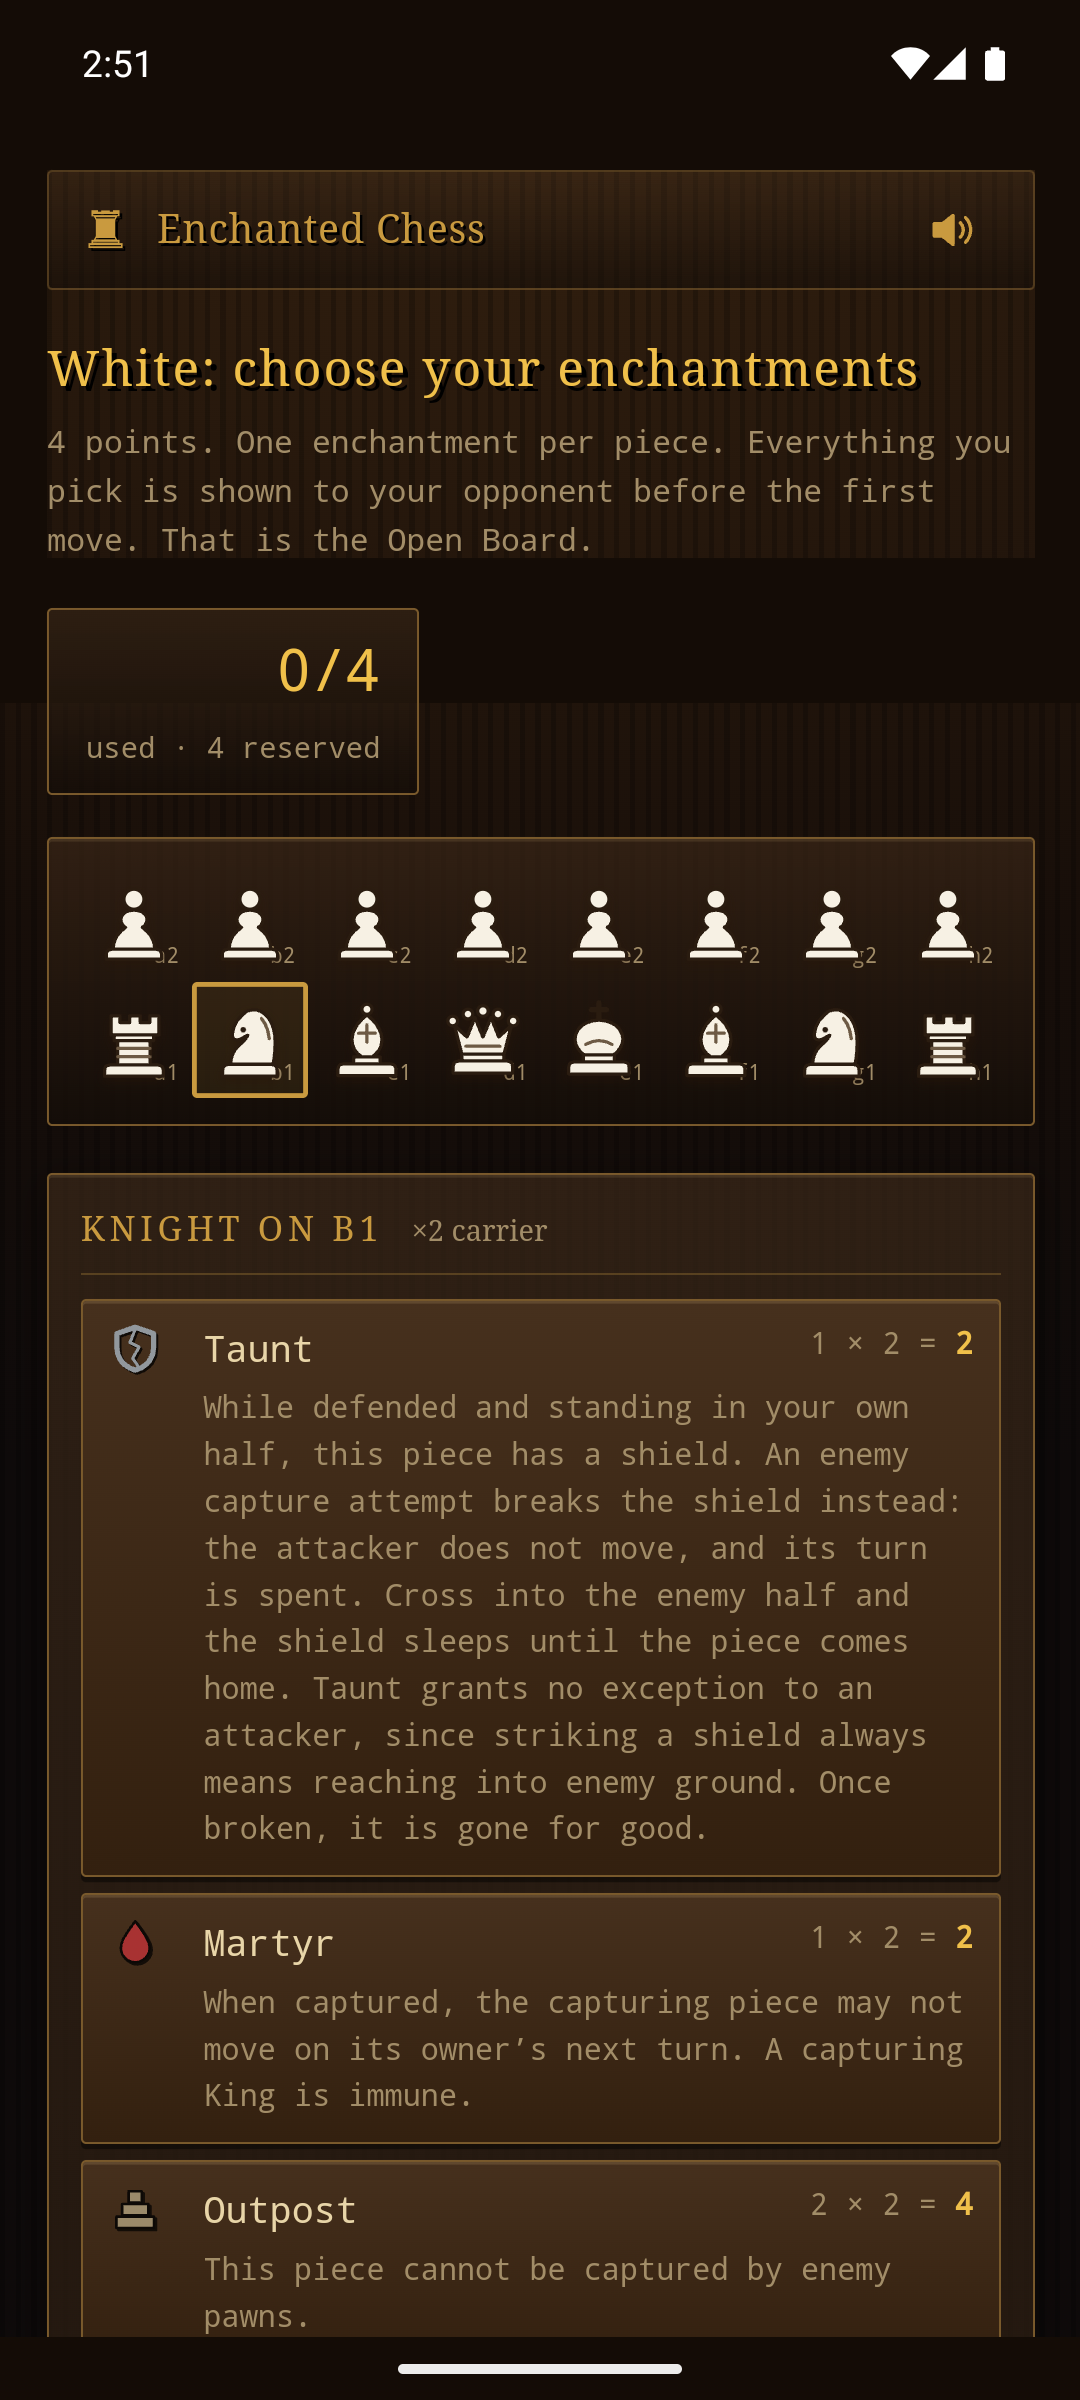
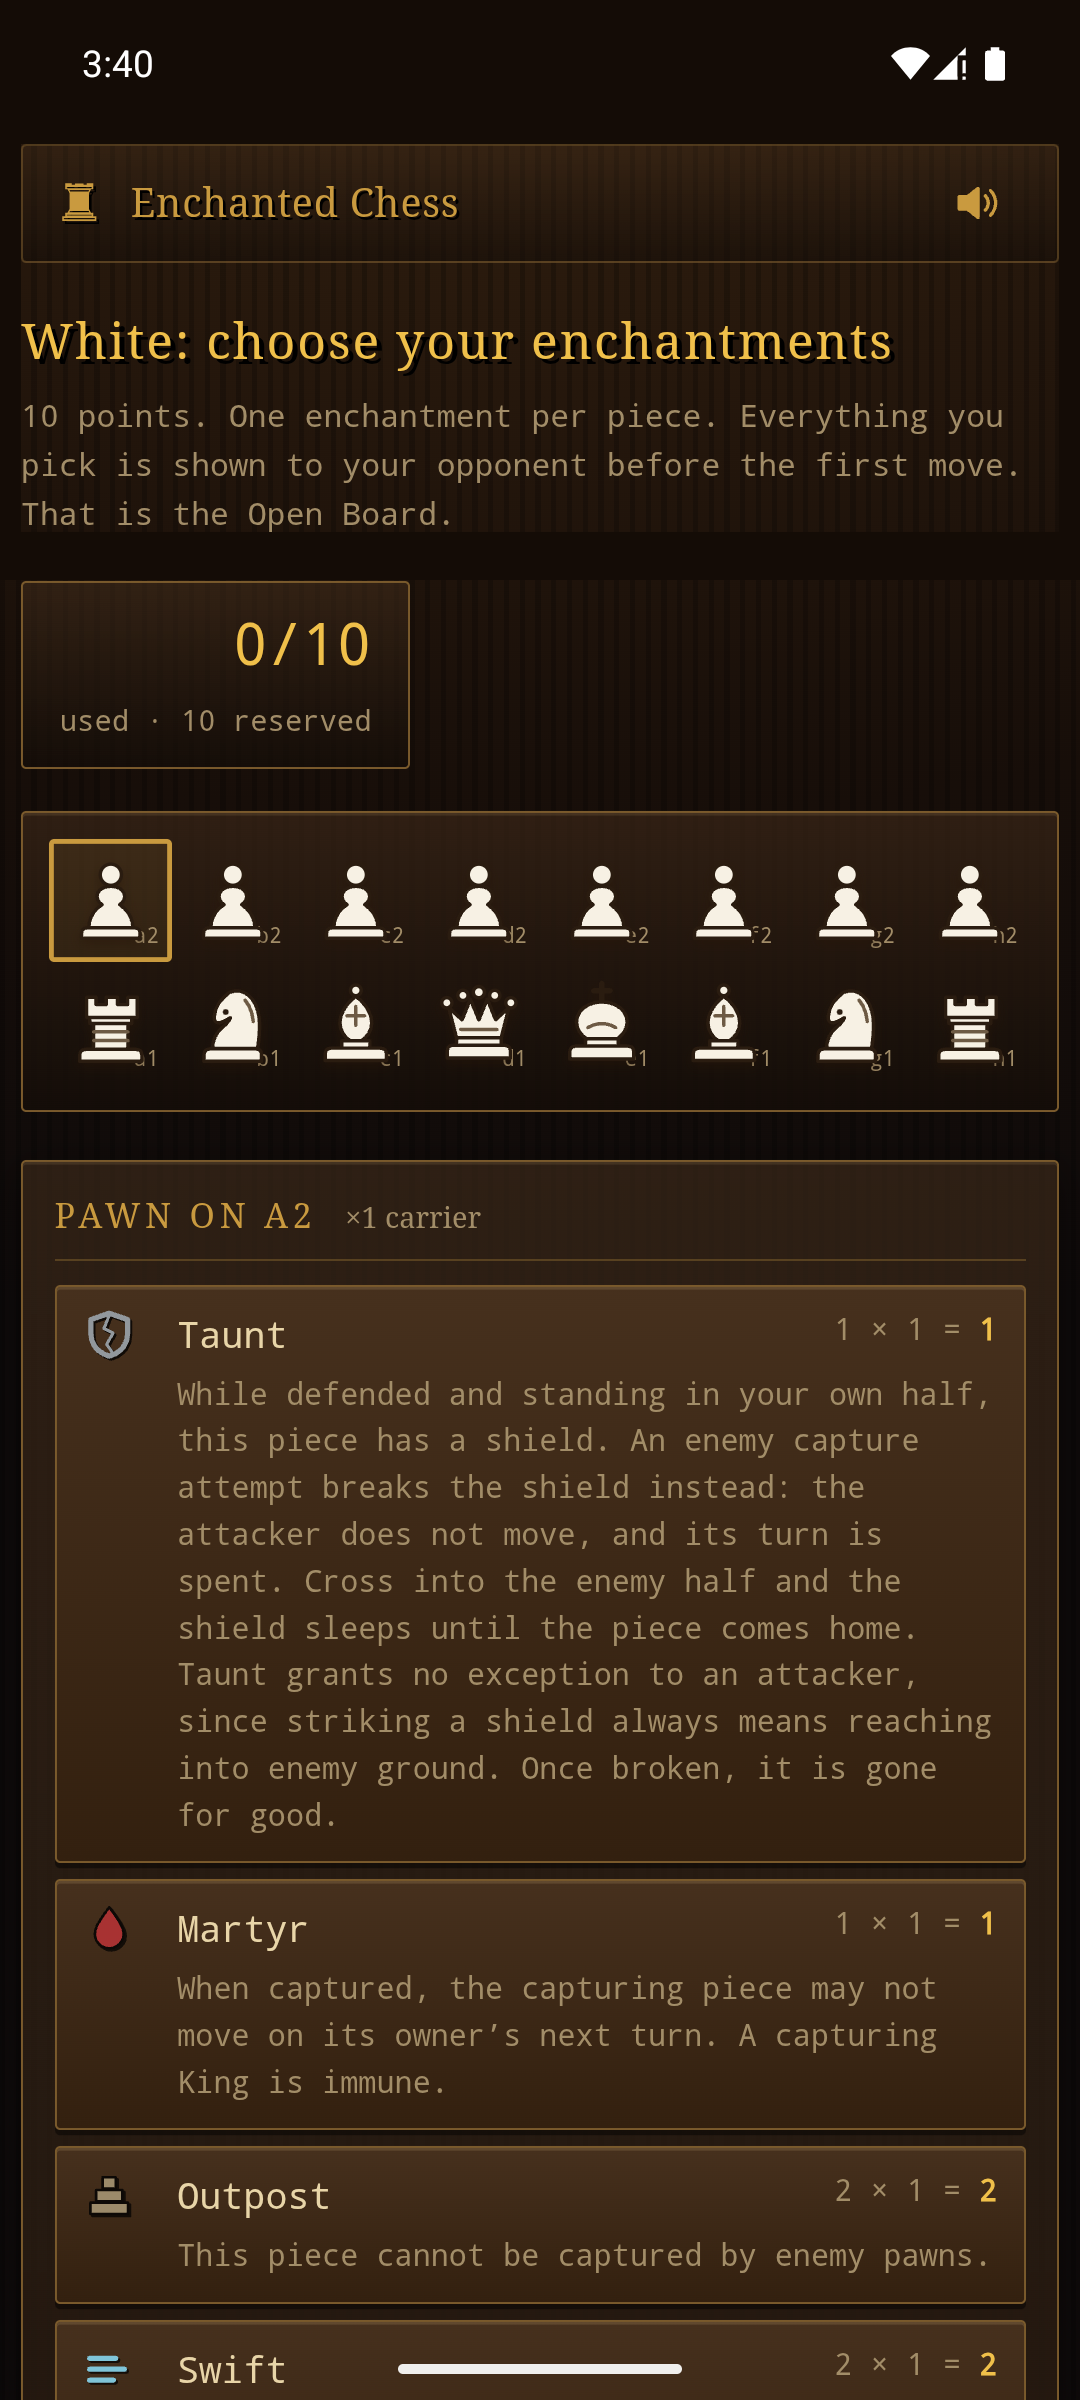
Give the Squire a face, and reshoot the builder against the current game
The Squire shipped without a rune. Every other enchantment has one — a shield, a
blood drop, a plinth, a flag, a skull, a flame — and the Squire's slot on the
shelf was simply empty, which at a glance reads as a bug rather than as an
enchantment. The brief asks for silhouette-level legibility per enchantment and
that is the one place it was not being met.

Two arrows trading places, matching the ⇄ the chronicle already writes for the
move. In the Herald's gold, because they are a pair and the colour should say so,
but as an exchange rather than a banner — at 24px the shape is all a player has to
tell them apart, and they sit next to each other on the shelf.

The listing screenshots were also a version behind: they showed a four-point
budget and a shelf with no Squire on it, which is a store promising one game and
an install delivering another. Reshot against the current build — the builder now
reads "10 points · 0/10 used" — and a fifth shot added of the whole shelf, since
"seven enchantments" in the description is worth showing rather than asserting.

Claude-Session: https://claude.ai/code/session_01UzyxiQ4mqD7YrUNtvPFFmW

Changed region(s): [[0.0, 0.0625, 1.0, 1.0], [0.0917, 0.0, 0.1528, 0.0312]]

diff --git a/src/ui/Pieces.tsx b/src/ui/Pieces.tsx
@@ -203,6 +203,16 @@ export function EnchRune({ ench, shield }: { ench: Enchantment; shield?: ShieldS
           <path className="rune-stroke" d="M6 2.6v18.8" />
         </>
       )}
+      {ench === 'squire' && (
+        /* Two arrows trading places, which is the whole move and matches the ⇄ the chronicle
+           writes. Deliberately unlike the Herald's flag it works with: at 24px a player has to
+           tell the pair apart at a glance, and one is a banner while the other is an exchange. */
+        <>
+          <path className="rune-stroke" d="M4.6 8.4h14.8M4.6 15.6h14.8" />
+          <path className="rune-fill" d="M15.6 4.6 21 8.4l-5.4 3.8z" />
+          <path className="rune-fill" d="M8.4 11.8 3 15.6l5.4 3.8z" />
+        </>
+      )}
       {ench === 'poison' && (
         <>
           <path className="rune-fill" d="M12 2.6a7 7 0 0 1 4.4 12.4v2.6a1.6 1.6 0 0 1-1.6 1.6H9.2a1.6 1.6 0 0 1-1.6-1.6V15A7 7 0 0 1 12 2.6z" />

diff --git a/src/ui/styles.css b/src/ui/styles.css
@@ -1052,6 +1052,11 @@ h1 {
 .rune-swift .rune-stroke { stroke: var(--frost); }
 .rune-herald .rune-fill { fill: var(--gold); }
 .rune-herald .rune-stroke { stroke: #6b4a12; }
+/* The Squire trades with the Herald, so it borrows the Herald's gold — they are a pair and the
+   colour should say so — but as arrows rather than a banner, which is what keeps them apart at
+   24px where the shape is all a player has. */
+.rune-squire .rune-fill { fill: var(--gold); }
+.rune-squire .rune-stroke { stroke: var(--gold); stroke-width: 1.8; fill: none; stroke-linecap: round; }
 .rune-poison .rune-fill { fill: var(--moss); }
 .rune-immolation .rune-fill { fill: var(--ember); }
 .rune-immolation .rune-stroke { stroke: var(--ember); stroke-width: 1.8; fill: none; stroke-linecap: round; }

diff --git a/play/listing.md b/play/listing.md
@@ -134,7 +134,8 @@ honest answer is that there is a reference in a character's name and description
 | `screenshots/01-the-board.png` | Phone screenshot — a live board with an enchanted pawn |
 | `screenshots/02-the-road.png` | Phone screenshot — the seven seats of the campaign |
 | `screenshots/03-the-open-board.png` | Phone screenshot — both loadouts revealed before move one |
-| `screenshots/04-loadout.png` | Phone screenshot — the builder, budget and enchantment costs |
+| `screenshots/04-loadout.png` | Phone screenshot — the builder, the ten-point budget and the cost maths |
+| `screenshots/05-the-shelf.png` | Phone screenshot — the whole shelf, Herald and Squire side by side |
 | `screenshots-tablet/01-the-board.png` | Tablet screenshot — the three-column board layout |
 | `screenshots-tablet/02-the-road.png` | Tablet screenshot — the seven seats, two columns |
 | `screenshots-tablet/03-rules.png` | Tablet screenshot — the Rules, set as a page |
